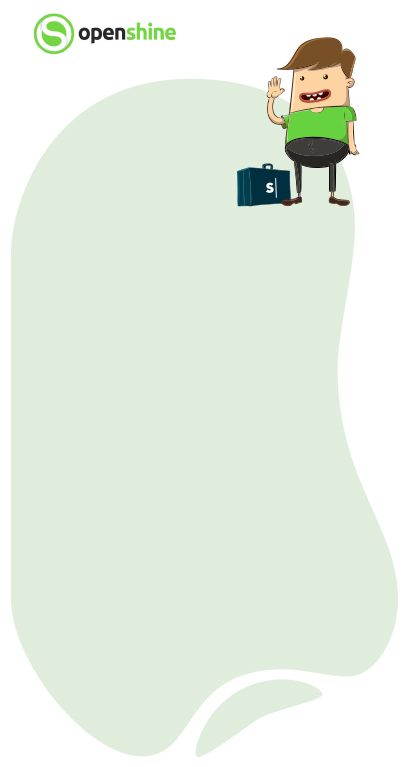
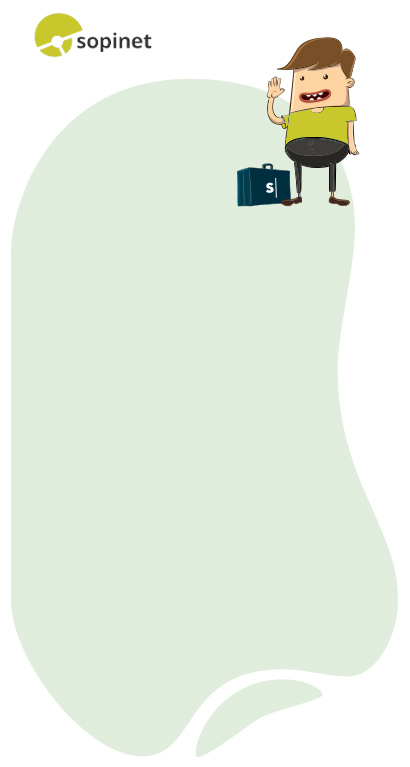
changes for Sopinet

Changed region(s): [[0.0585, 0.0, 0.439, 0.09], [0.6732, 0.1199, 0.878, 0.2099]]

diff --git a/index.html b/index.html
@@ -18,9 +18,11 @@
 
     <div class="content">
         <div class="bye">
-            <h1>Ha sido un placer,</h1>
-            <p>hemos disfrutado plenamente con todos los retos que hemos superado, conociendo a nuestros clientes y dando del 100% en todos y cada uno de nuestros proyectos.</p>
-            <p>Hemos crecido y por eso a partir de ahora, nos vemos en Sngular</p>
+            <h1>De parte de todo el equipo: Gracias</h1>
+            <p>Muchos proyectos, muchas horas, mucha diversión, muchas personas y muchísimo aprendizaje.</p>
+            <p>Desde el pasado 1 de Abril de 2019 todo el equipo se integró en Sngular.</p>
+            <p>Sopinet ya no existe y no desarrollamos ningún tipo de actividad.</p>
+
             <a class="link" href="http://www.sngular.com">Visita el site de Sngular</a>
         </div>
     </div>
